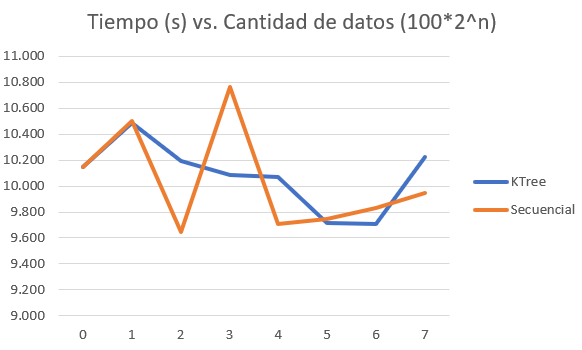
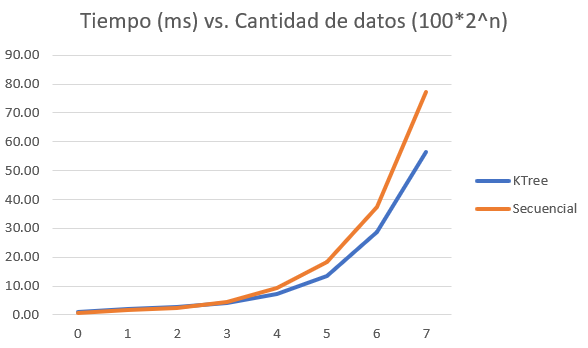
readme backend

diff --git a/README.md b/README.md
@@ -7,9 +7,39 @@
 * Construir una aplicación front end para poder usar el motor de búsqueda con facilidad.
 ## Implementación
 ### Construcción del índice RTree
-La construcción del índice se pudo lograr apoyado de la librería
+La construcción del índice se pudo lograr apoyado de la librería _RTree_ de Python la que nos proporciona con la estructura de datos que soporta _N-Dimension Arrays_ (_ndarray_) de la librería _numpy_. Las imágenes son interpretadas en _face encodings_ que son _ndarrays_ de 128 dimensiones.
+```javascript
+i = 0
+for file in files:
+	for face in face_encodings(load_image_file(file)):
+		rtindex.insert(i, point2box(face), obj = file.split("/")[-2])
+	i += 1
+```
+Se itera por cada carpeta de la carpeta root indicada como parámetro encontrando todas las imágenes y añadiéndolas al RTree después de ser transformadas en _face encodings_.
 ### Búsqueda KNN
+La estructura de datos RTree cuenta con una función que facilita conseguir el elemento más cercano que es la función _nearest()_, el cual devuelve k elementos más cercanos a un _ndarray_.
+```
+def knn_search(index: Index, face: np.ndarray, k: int) -> List[str]:
+	return [
+		n.object
+		for n in index.nearest(point2box(face), k, objects=True)
+			if n is  not  None  and isinstance(n.object, str)
+	]
+```
+De esta manera se devuelve una lista con todos los elementos válidos encontrados por la función _nearest_ de los primeros _k_ vecinos.
 ### Búsqueda por rango
+De modo similar, se cuenta con la función _intersection()_ que retorna todos los valores que se encuentren en un rango de cercanía específico (_bounding box_).
+```
+def range_search(index: Index, face: np.ndarray, r: float) -> List[str]:
+	return [
+		n.object
+		for n in index.intersection(bounding_box(face, r), objects=True)
+			if n is  not  None  and isinstance(n.object, str)
+]
+```
+Con esto se consigue todos los objetos válidos dentro del rango _r_.
 ## Análisis experimental
+Para el experimento de prueba se tomo el índice RTree presentado previamente y se puso a comparación con una lista secuencial con los mismos elementos sin indexar. Ambos van a ser sometidos a varias pruebas de búsqueda KNN con diferentes números de datos (100, 200, 400, ..., 12800). 
 ![KNN RTree vs Secuencial](images/image1.PNG)
+Como se puede apreciar a gran escala el tiempo de ejecución del RTree es superior al de una búsqueda en una lista secuencial, pero esto recién se empieza a dar cerca del valor N=500, donde previamente la eficiencia de la lista secuencial es superior. Este indicaría que para proyectos con números bajos de elementos no hay necesidad del índice, sin embargo, para asegurarse que una base de datos multimedia sea escalable es indispensable el uso de un índice multimedia.
 ## Front-End
